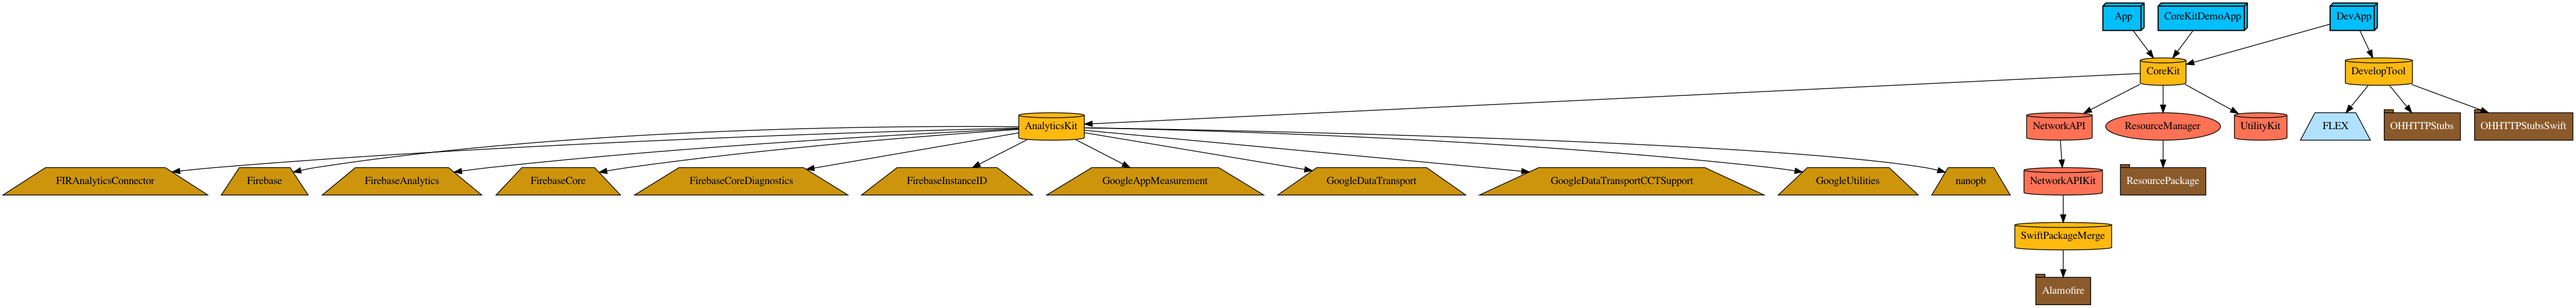
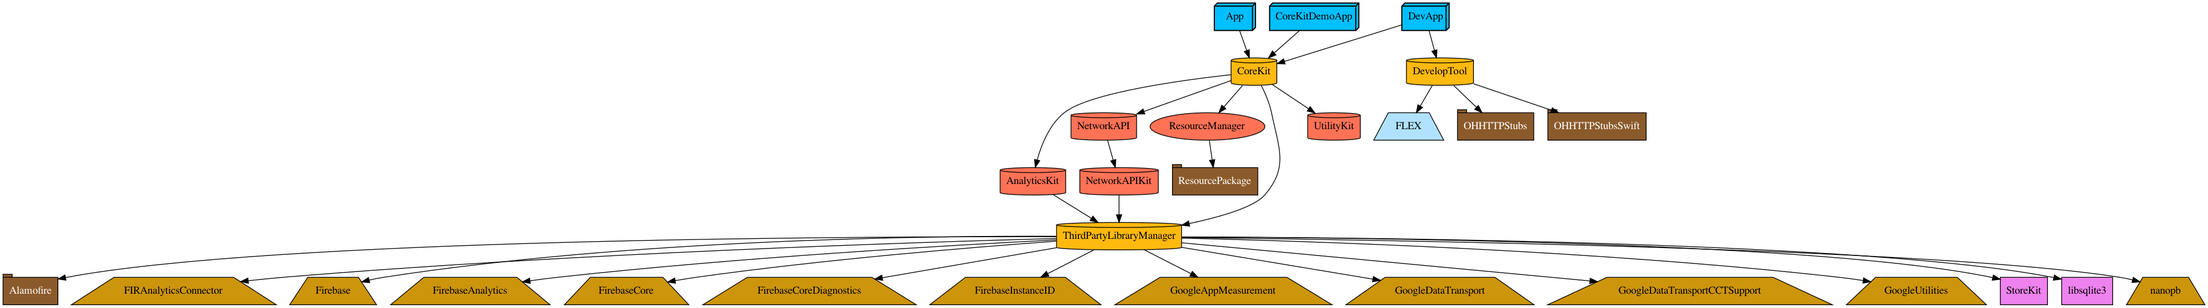
SwiftPackageMerge 제거 및 ThirdPartyLibraryManger에서 SwiftPM, Vendor Framework, System SDK를 관리하도록 변경

diff --git a/Plugin/UtilityPlugin/ProjectDescriptionHelpers/ProjectDependency.swift b/Plugin/UtilityPlugin/ProjectDescriptionHelpers/ProjectDependency.swift
@@ -14,14 +14,14 @@ public extension TargetDependency {
 }
 
 public extension TargetDependency.Project {
-    static let UtilityKit: TargetDependency = .module(name: "UtilityKit")
-    static let NetworkAPIKit: TargetDependency = .module(name: "NetworkAPIKit")
-    static let NetworkAPI: TargetDependency = .module(name: "NetworkAPI")
-    static let CoreKit: TargetDependency = .module(name: "CoreKit")
-    static let SwiftPackageMerge: TargetDependency = .module(name: "SwiftPackageMerge")
-    static let ResourceManager: TargetDependency = .module(name: "ResourceManager")
-    static let DevelopTool: TargetDependency = .module(name: "DevelopTool")
-    static let AnalyticsKit: TargetDependency = .module(name: "AnalyticsKit")
+    static let UtilityKit               = TargetDependency.module(name: "UtilityKit")
+    static let NetworkAPIKit            = TargetDependency.module(name: "NetworkAPIKit")
+    static let NetworkAPI               = TargetDependency.module(name: "NetworkAPI")
+    static let CoreKit                  = TargetDependency.module(name: "CoreKit")
+    static let ResourceManager          = TargetDependency.module(name: "ResourceManager")
+    static let DevelopTool              = TargetDependency.module(name: "DevelopTool")
+    static let AnalyticsKit             = TargetDependency.module(name: "AnalyticsKit")
+    static let ThirdPartyLibraryManager = TargetDependency.module(name: "ThirdPartyLibraryManager")
 }
 
 // MARK: Extension

diff --git a/Projects/Modules/ThirdPartyLibraryManager/Project.swift b/Projects/Modules/ThirdPartyLibraryManager/Project.swift
@@ -1,0 +1,14 @@
+import ProjectDescription
+import ProjectDescriptionHelpers
+
+let project = Project
+    .framework(name: "ThirdPartyLibraryManager",
+               packages: [
+                .Alamofire
+               ],
+               dependencies: [
+                [.SwiftPM.Alamofire],
+                [.sdk(name: "libsqlite3.tbd"),
+                 .sdk(name: "StoreKit.framework")],
+                TargetDependency.Framework.Firebase
+               ].flatMap { $0 })

diff --git a/Projects/Modules/AnalyticsKit/Project.swift b/Projects/Modules/AnalyticsKit/Project.swift
@@ -3,5 +3,7 @@ import ProjectDescriptionHelpers
 import UtilityPlugin
 
 let project = Project
-    .framework(name: "AnalyticsKit",
-               dependencies: TargetDependency.Framework.Firebase)
+    .staticFramework(name: "AnalyticsKit",
+                     dependencies: [
+                        .Project.ThirdPartyLibraryManager,
+                     ])

diff --git a/Projects/Modules/NetworkAPIKit/Project.swift b/Projects/Modules/NetworkAPIKit/Project.swift
@@ -5,5 +5,5 @@ import UtilityPlugin
 let project = Project
     .staticFramework(name: "NetworkAPIKit",
                      dependencies: [
-                        .Project.SwiftPackageMerge
+                        .Project.ThirdPartyLibraryManager
                      ])

diff --git a/Projects/Modules/CoreKit/Project.swift b/Projects/Modules/CoreKit/Project.swift
@@ -8,5 +8,6 @@ let project = Project
                 .Project.UtilityKit,
                 .Project.ResourceManager,
                 .Project.AnalyticsKit,
+                .Project.ThirdPartyLibraryManager,
                ],
                hasDemoApp: true)

diff --git a/Projects/Modules/NetworkAPIKit/Sources/Exported.swift b/Projects/Modules/NetworkAPIKit/Sources/Exported.swift
@@ -5,5 +5,3 @@
 //  Created by minsone on 2021/05/15.
 //  Copyright © 2021 minsone. All rights reserved.
 //
-
-@_exported import SwiftPackageMerge

diff --git a/Projects/Modules/AnalyticsKit/Sources/AnalyticsKit.swift b/Projects/Modules/AnalyticsKit/Sources/AnalyticsKit.swift
@@ -1,4 +1,5 @@
 import Foundation
+import ThirdPartyLibraryManager
 import Firebase
 
 public class Logger {}
